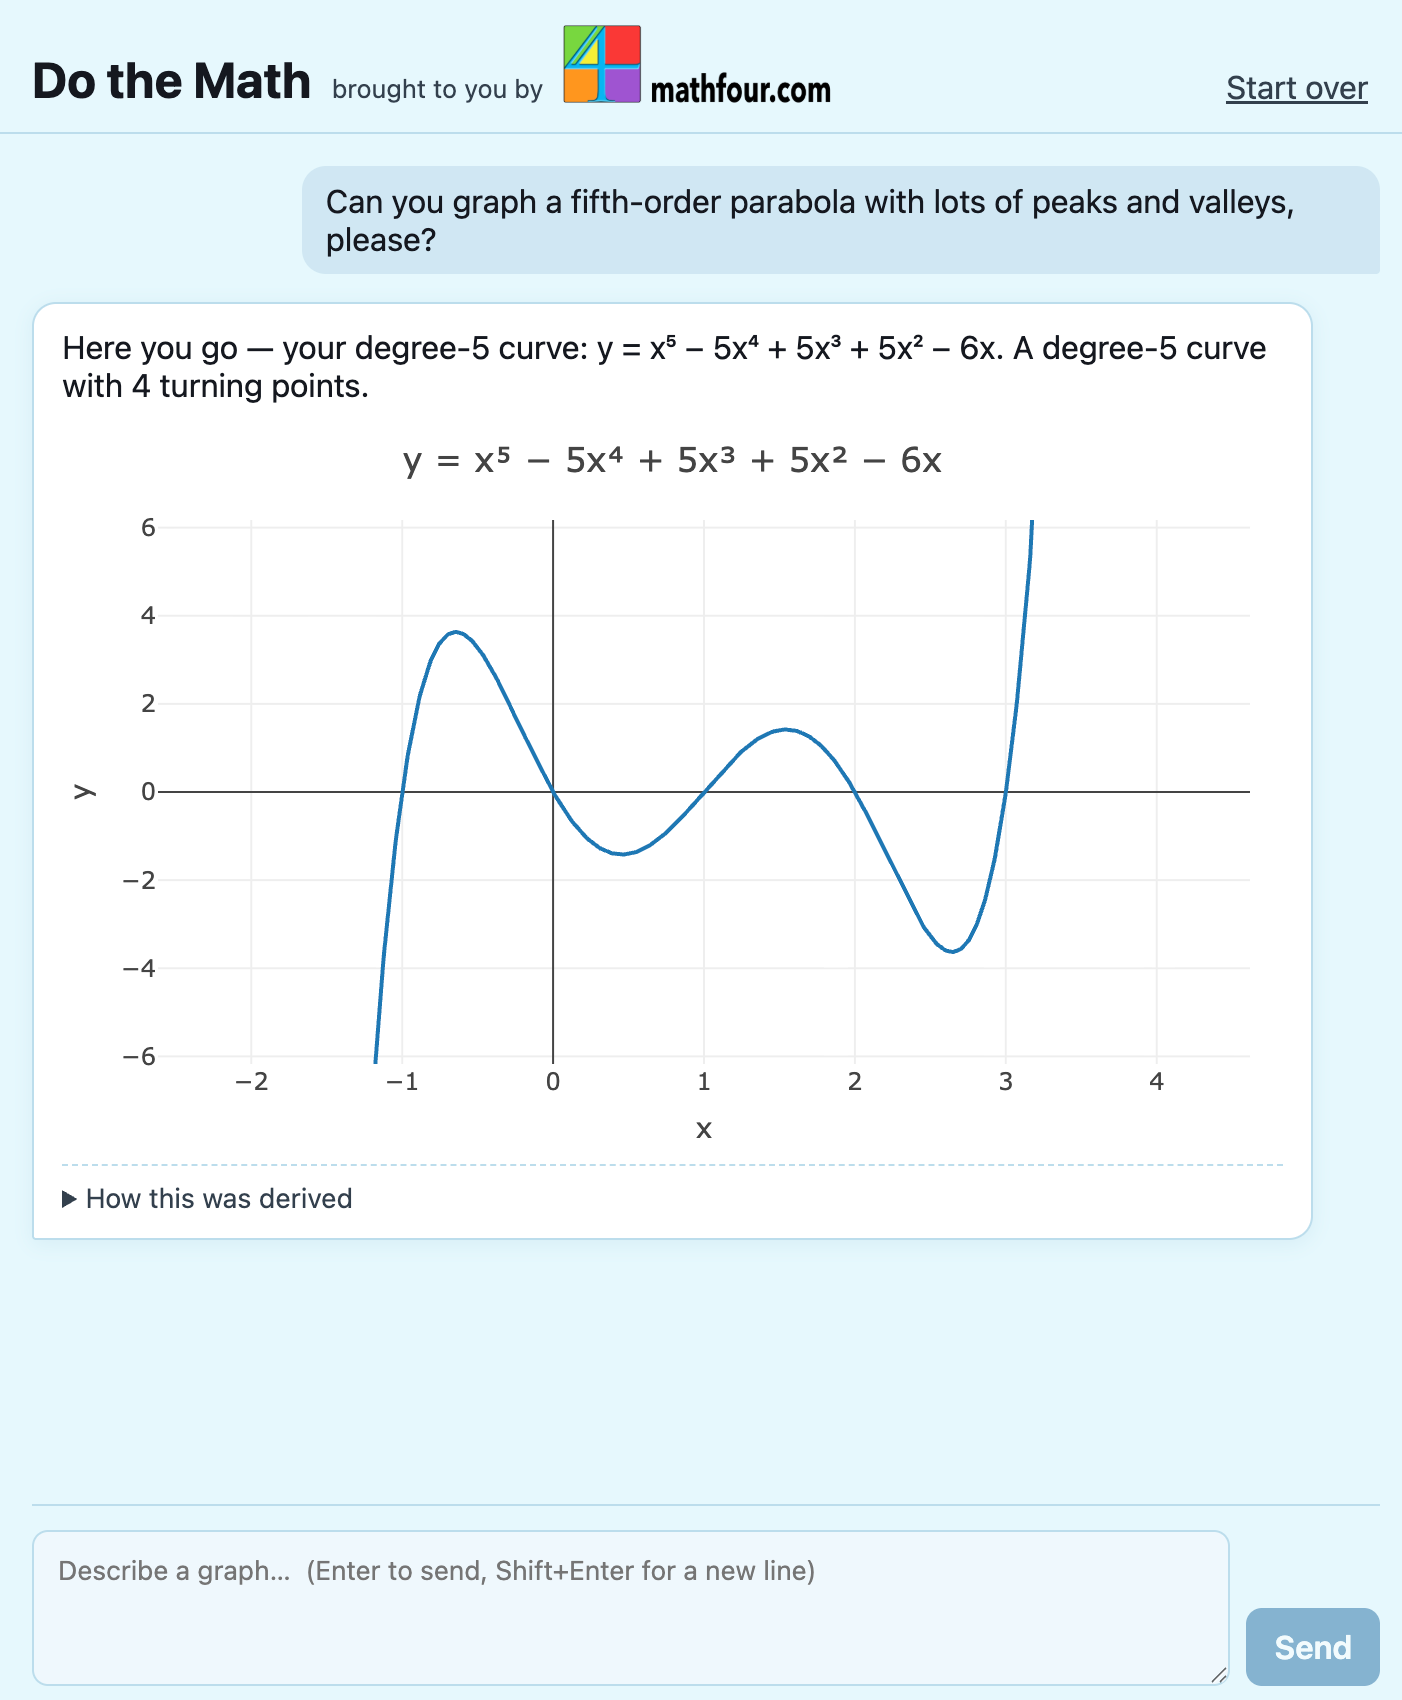
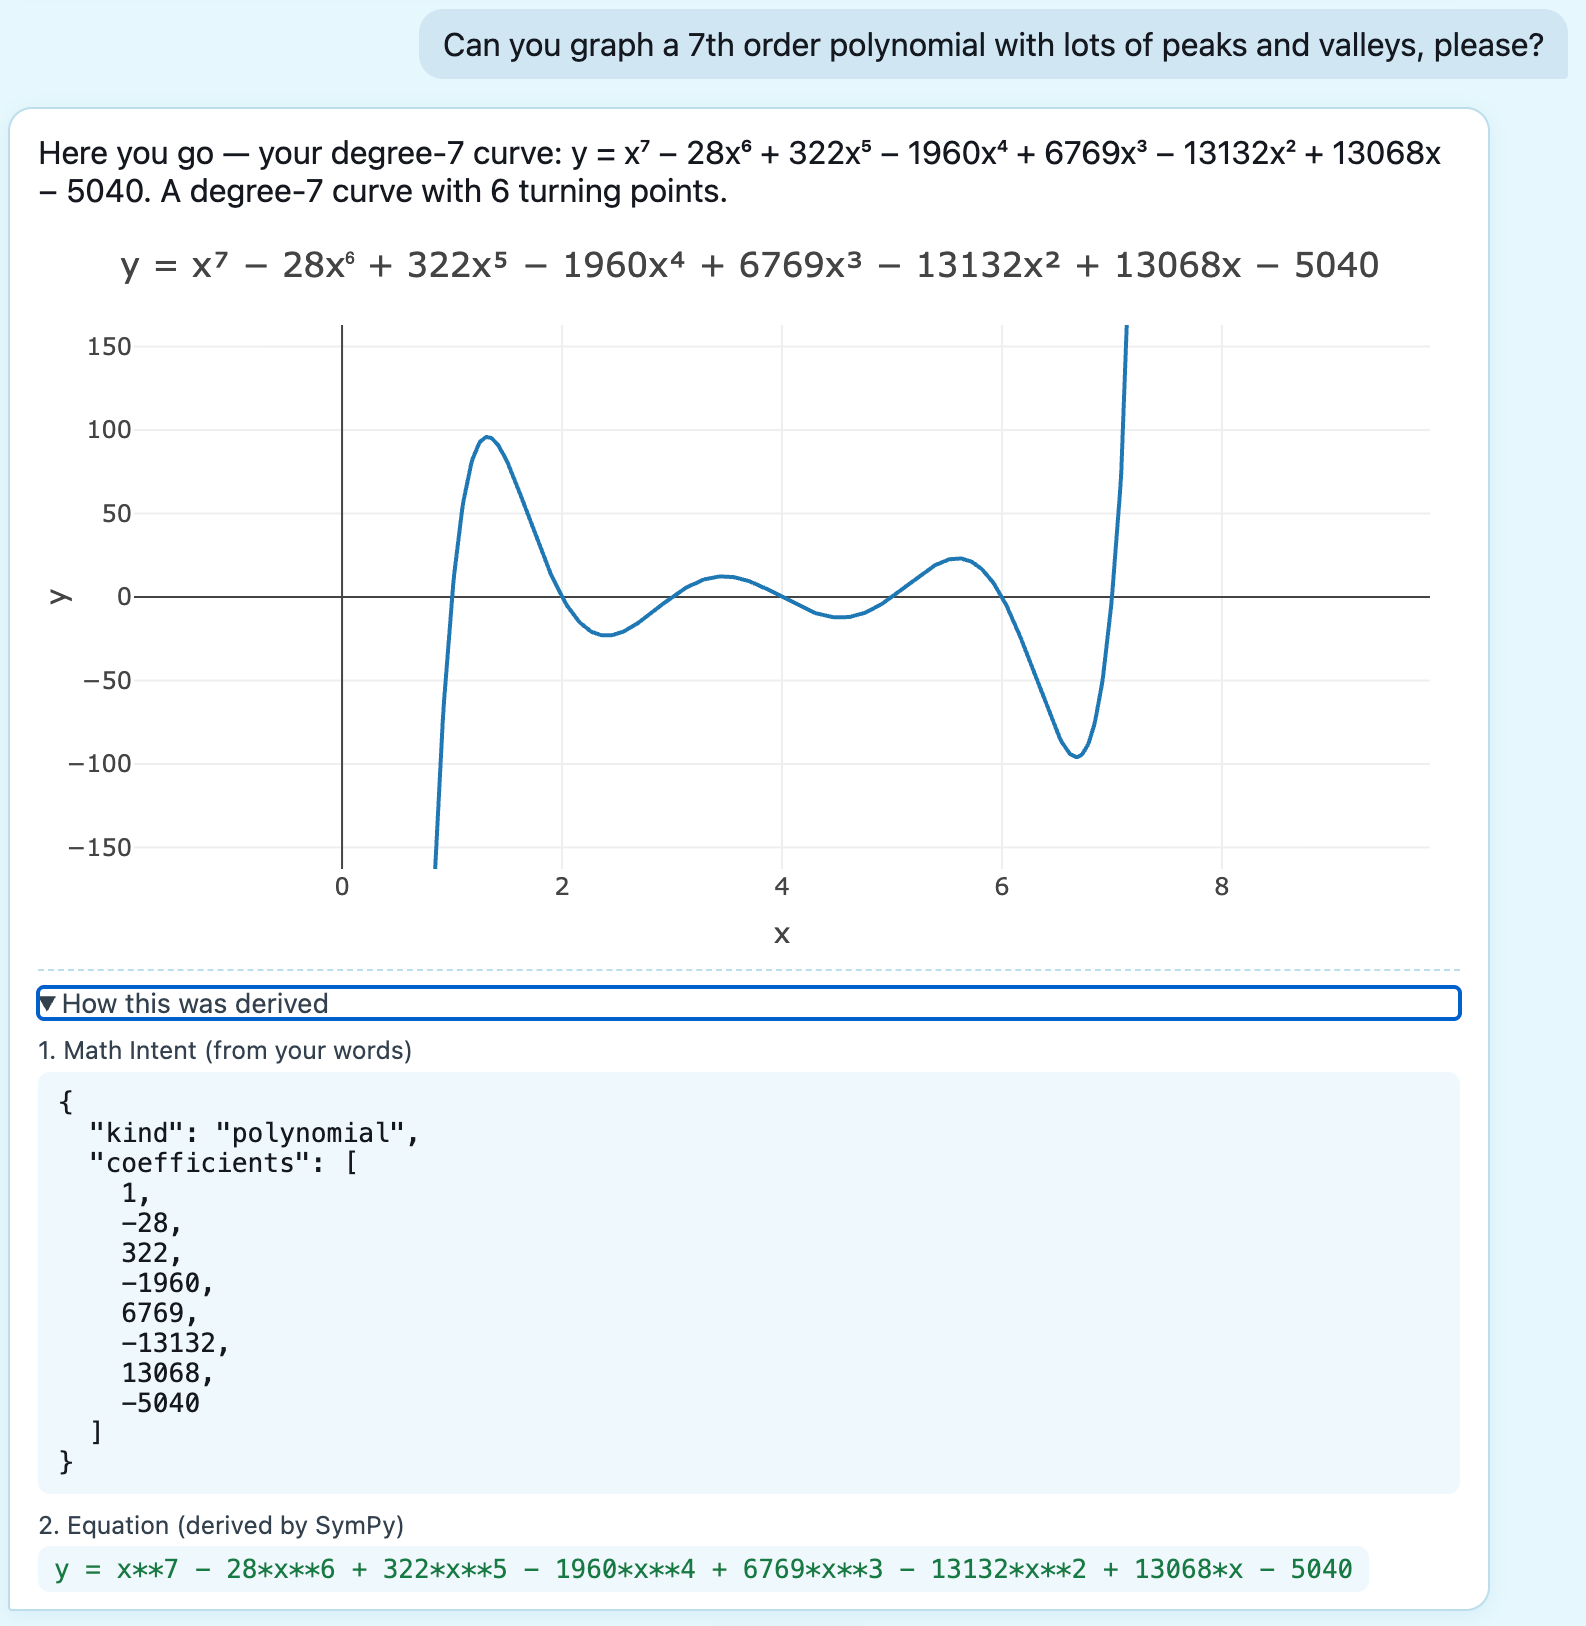
docs(demo): show expanded reasoning panel in graph-result; shrink ready-state image
- graph-result.png: recapture with 'How this was derived' open, so the
  screenshot shows the IR + SymPy-derived equation (the architecture).
- README: render the ready-state image at ~60% (width=520).

diff --git a/README.md b/README.md
@@ -119,9 +119,9 @@ A simple browser chat:
 
 ## Demo
 
-![Do the Math — ready state](demo/ready-state.png)
+<img src="demo/ready-state.png" alt="Do the Math — ready state (first-run provider/key screen)" width="520" />
 
-![A graphing result with the reasoning panel expanded](demo/graph-result.png)
+![A graphing result with the reasoning panel expanded — request, conversational answer, graph, and the Math Intent (IR) plus the SymPy-derived equation](demo/graph-result.png)
 
 Full slice in motion — request → IR → SymPy derivation → graph:
 